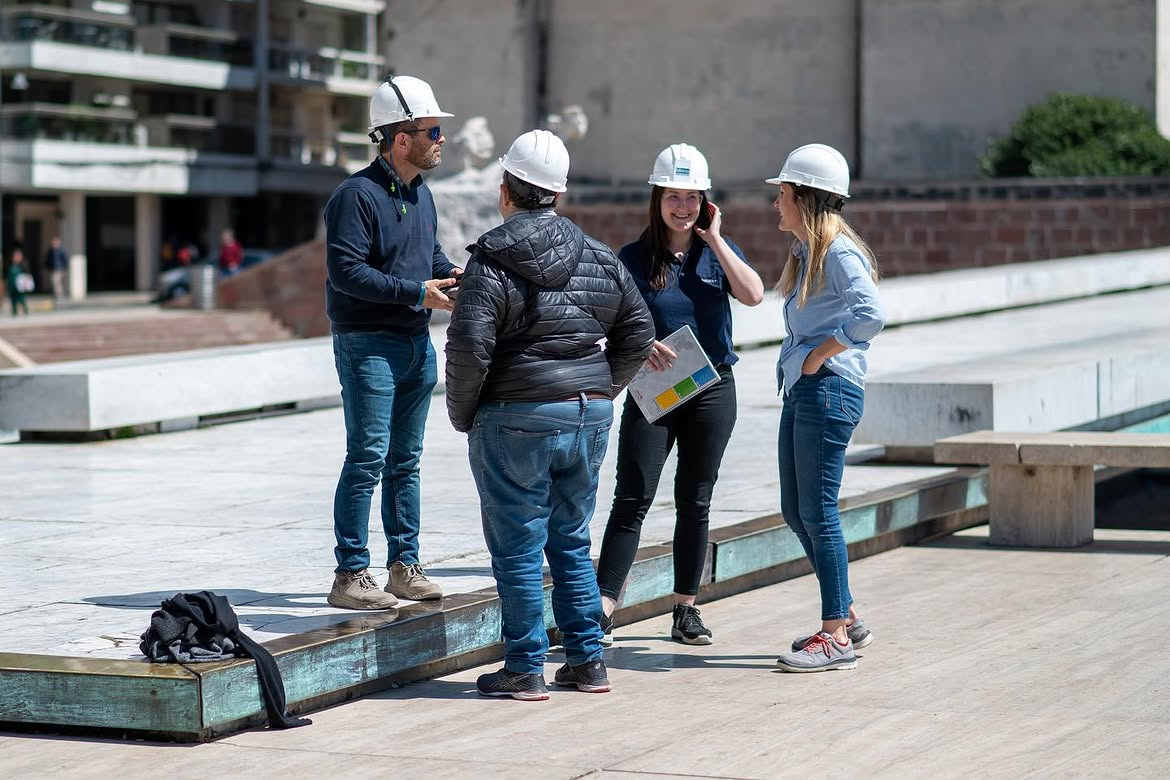
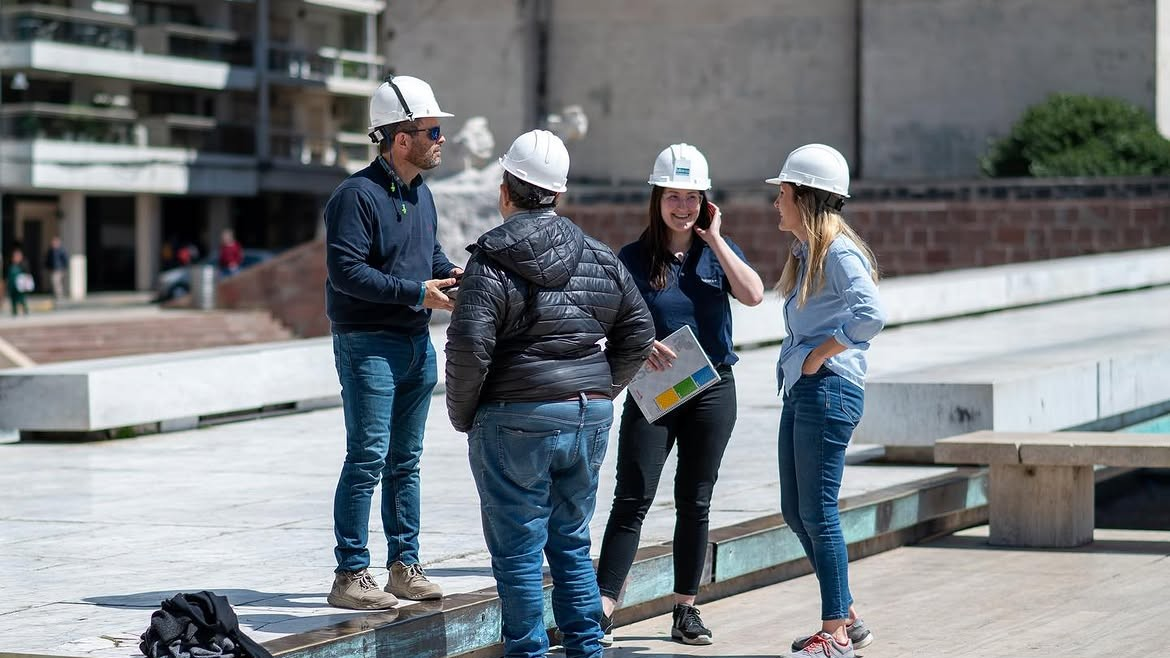
update

diff --git a/docs/nosotros.html b/docs/nosotros.html
@@ -71,7 +71,7 @@
       </article>
 
       <article class="obra-card tarjeta reveal">
-        <div class="tarjeta-img" style="background-image:url('img/nosotros/team.jpg')">
+        <div class="tarjeta-img" style="background-image:url('img/nosotros/00.jpg')">
           <h2>Perspectiva</h2>
         </div>
         <div class="tarjeta-cuerpo">
